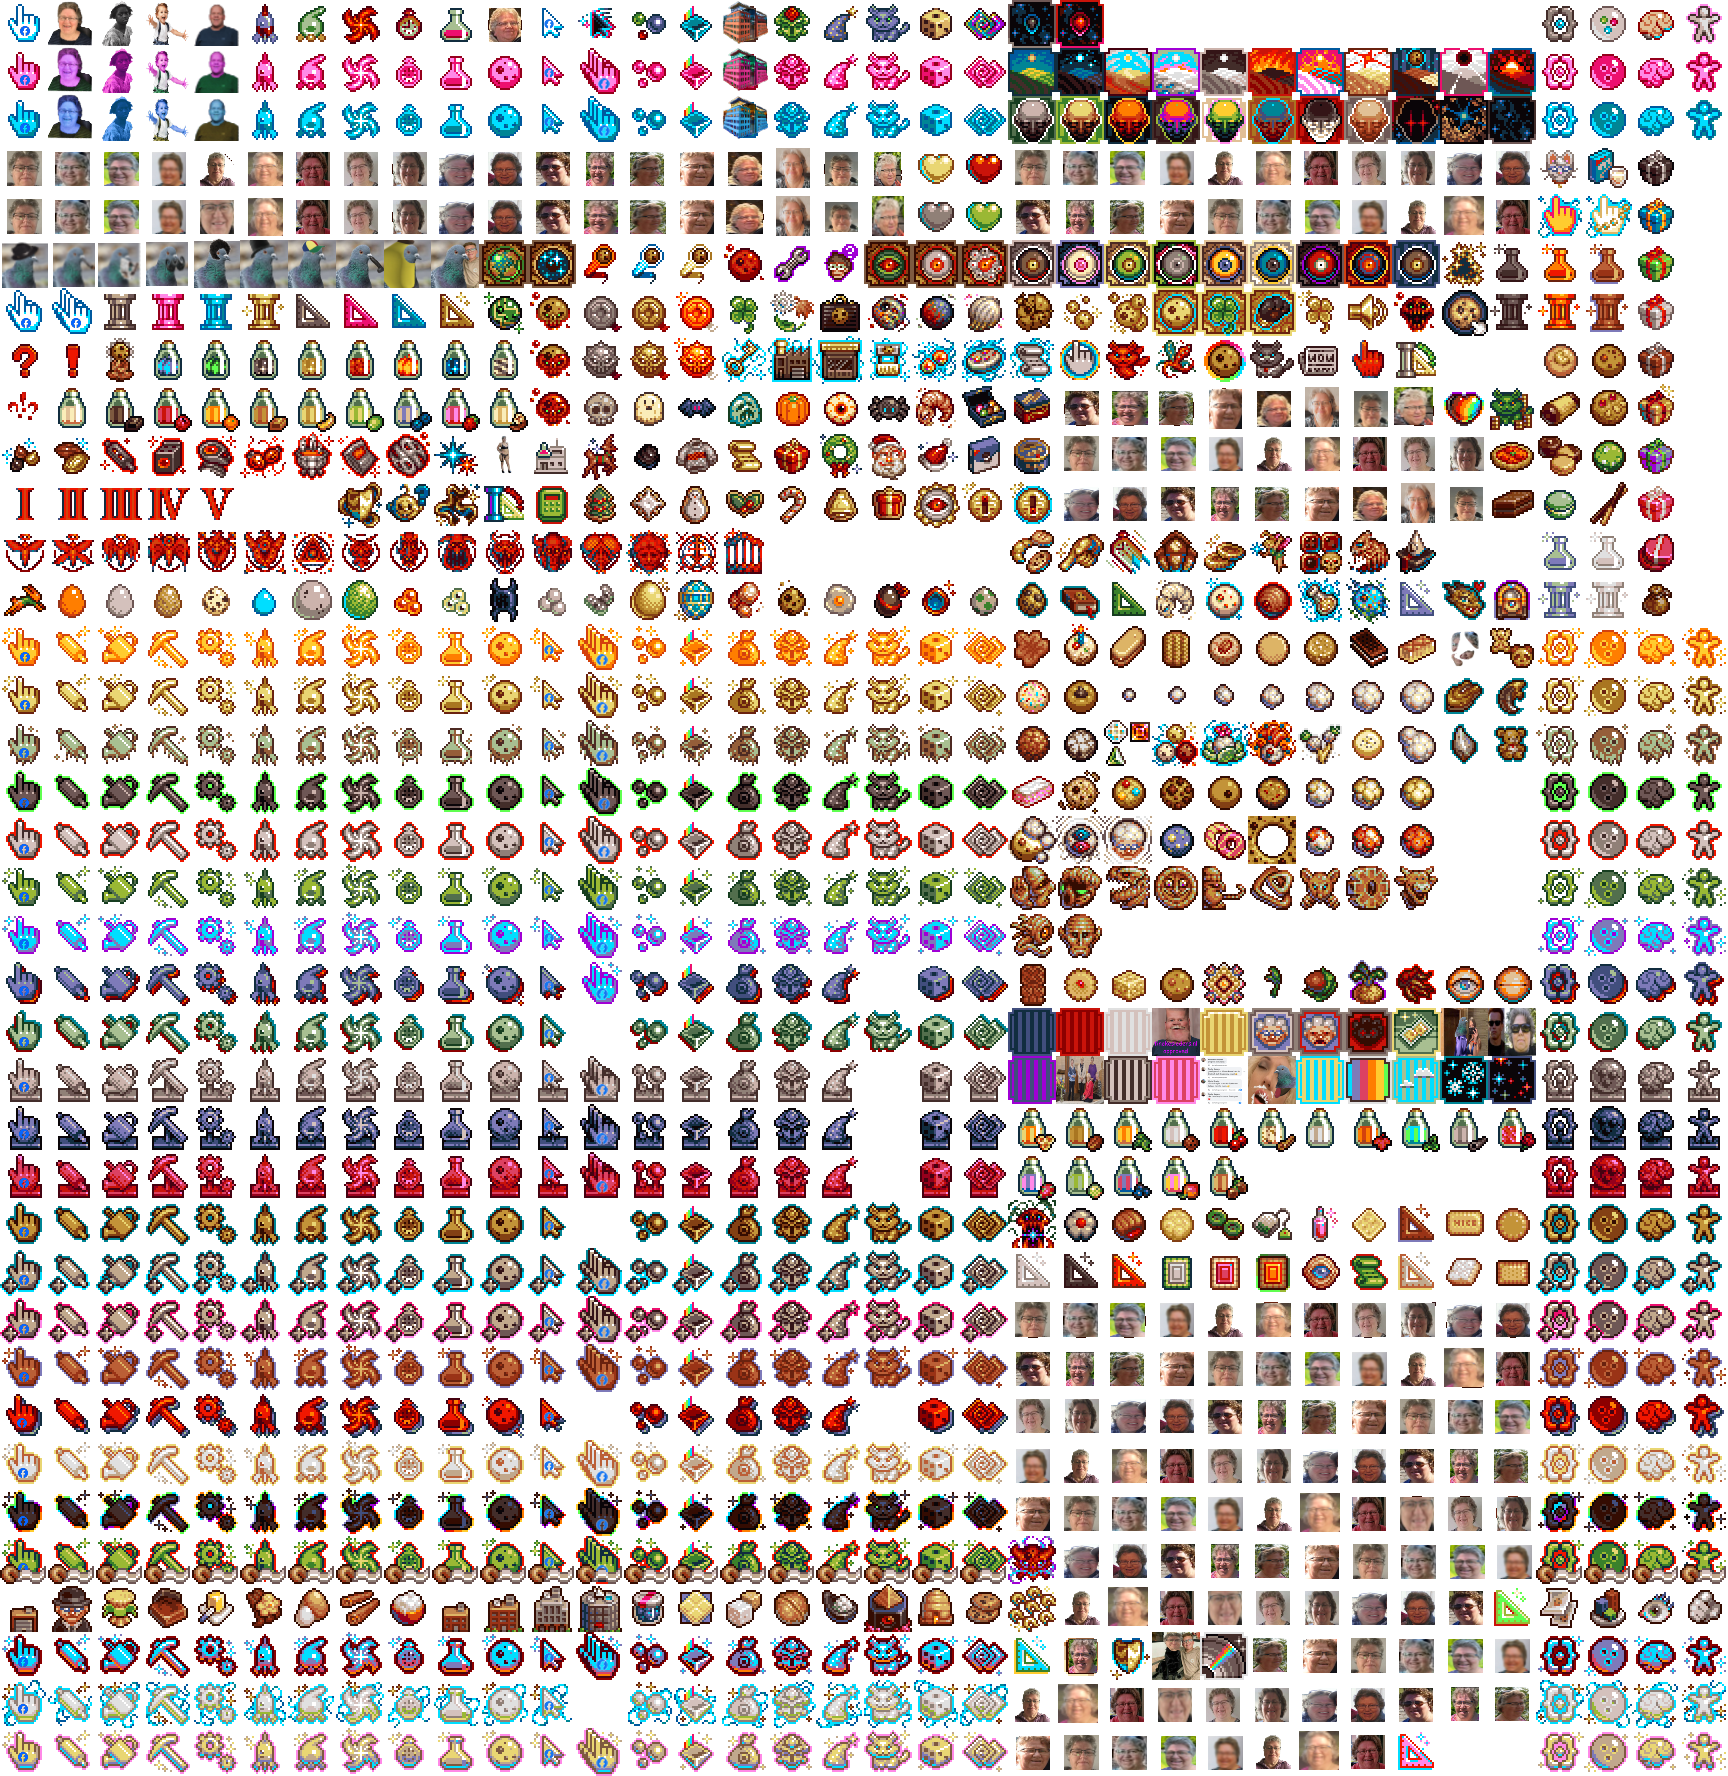
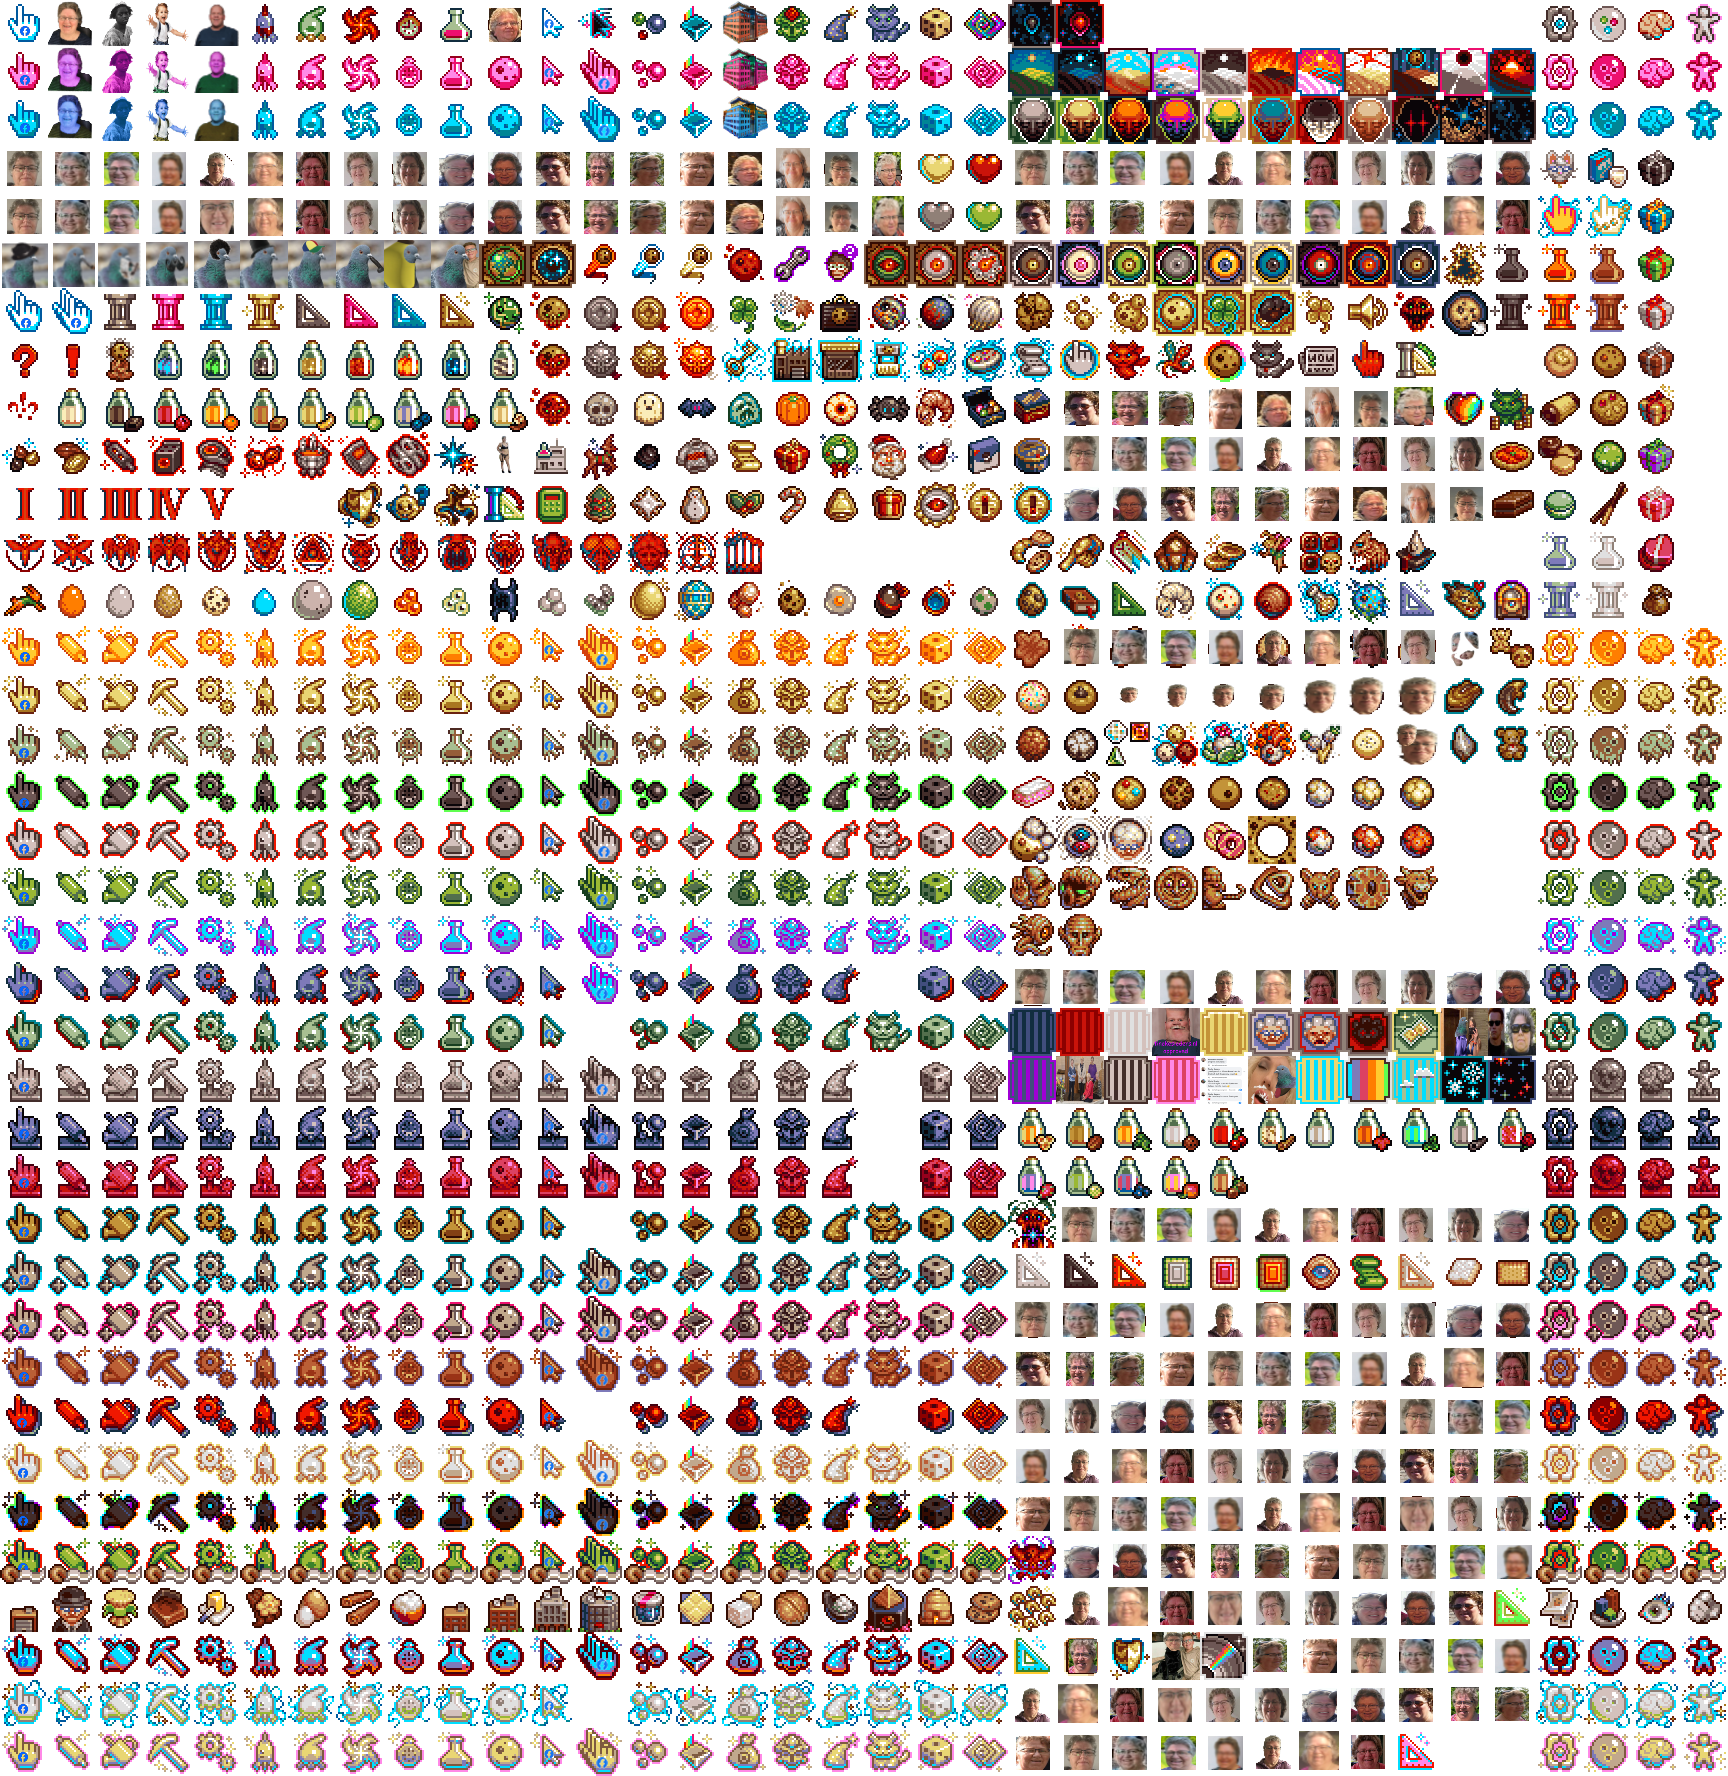
dwdwadQWSDWADWSADS

Changed region(s): [[0.5938, 0.5265, 0.9062, 0.5884], [0.5938, 0.3407, 0.8438, 0.4336], [0.5938, 0.6813, 0.9062, 0.7123]]

diff --git a/main.js b/main.js
@@ -1334,6 +1334,10 @@ Game.Launch=function()
 	'<div class="listing">&bull; Rechtsboven in moet je op de knop "Naar de betere taal gaan" klikken. Als je dat doet klik dan op "Kies deze!!!", Dit is omdat Cookie Clicker kanker code heeft en bijna niks leuk vindt. </div>'+
 	'<div class="title">&bull; Heb je nog ideeën? Stuur het naar <a href="mailto:info@tinekesieders.nl" target="_blank">info@tinekesieders.nl</a></div>'+
 	'<div class="title">&bull; Ga naar <a href="https://domains.tinekesieders.nl" target="_blank">https://domains.tinekesieders.nl</a> voor meer zoals dit.</div>'+
+    
+    '</div><div class="subsection update">'+
+	'<div class="title">25/07/2025 - Kleine patchnotes 7.0</div>'+
+	'<div class="listing">&bull; Dood project dit eig, maar een paar afbeeldingen veranderd :D</div>'+
 
     '</div><div class="subsection update">'+
 	'<div class="title">08/05/2025 - Kleine patchnotes 6.0</div>'+
